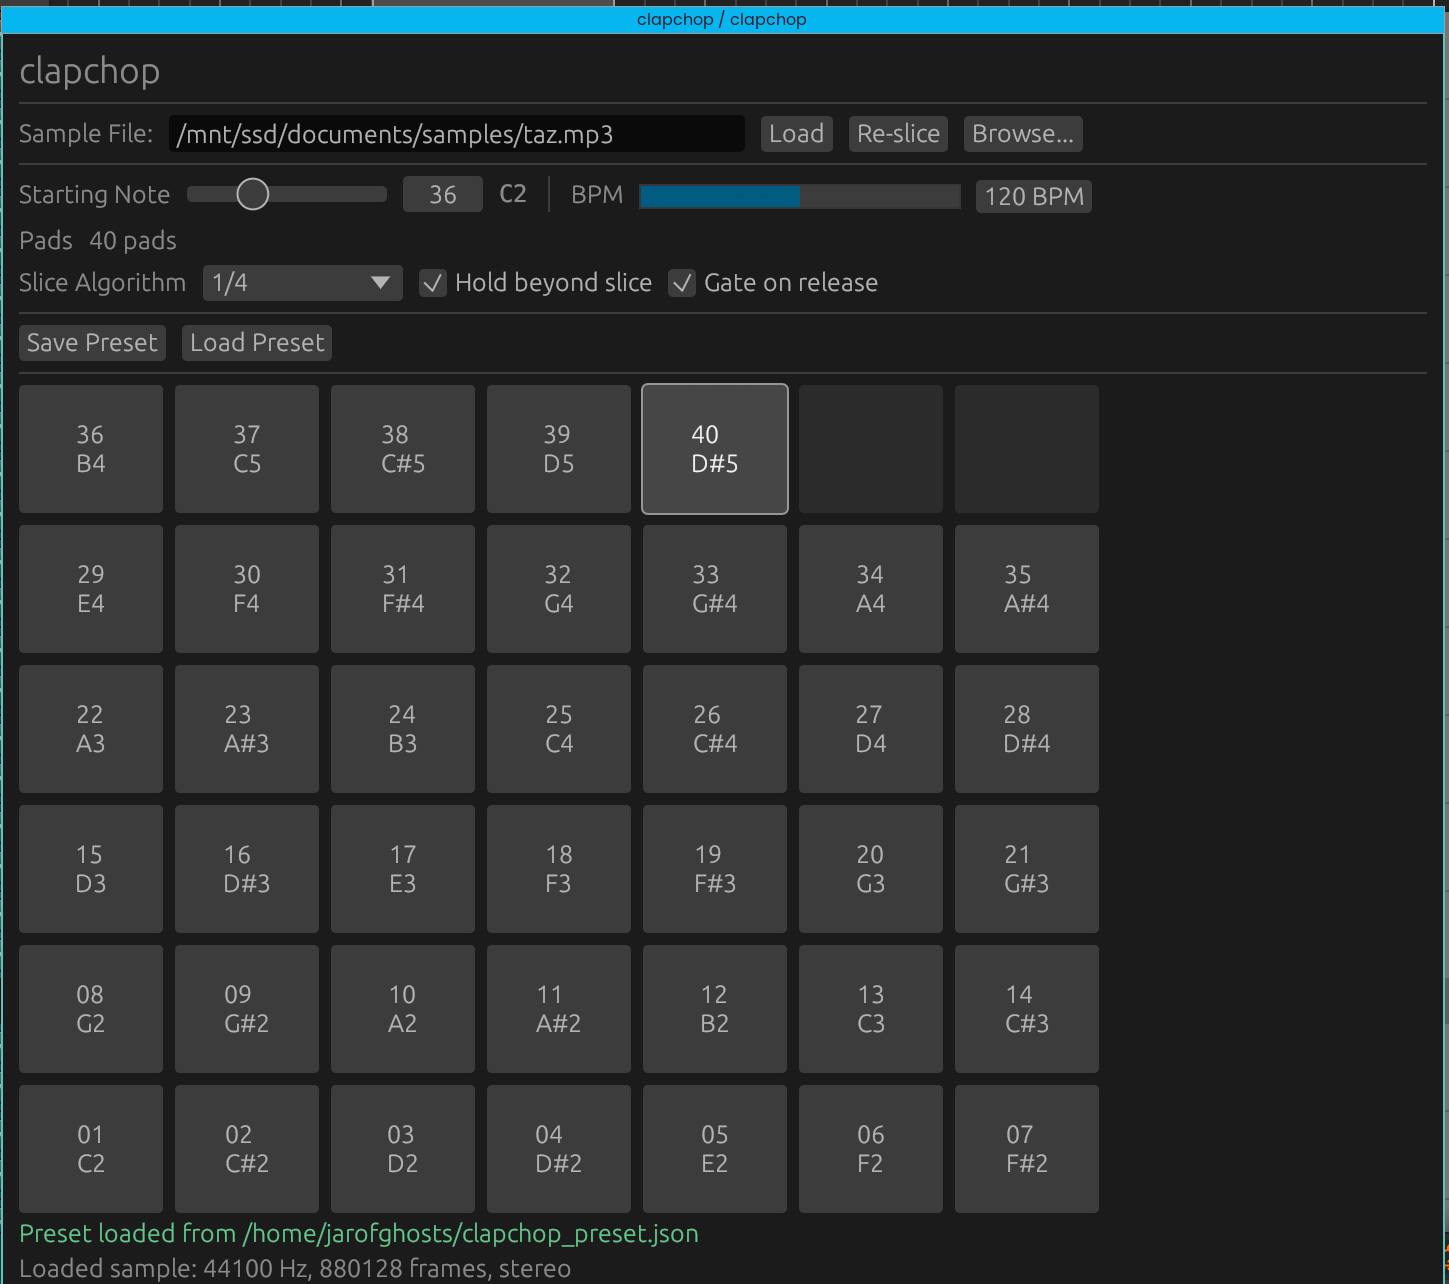
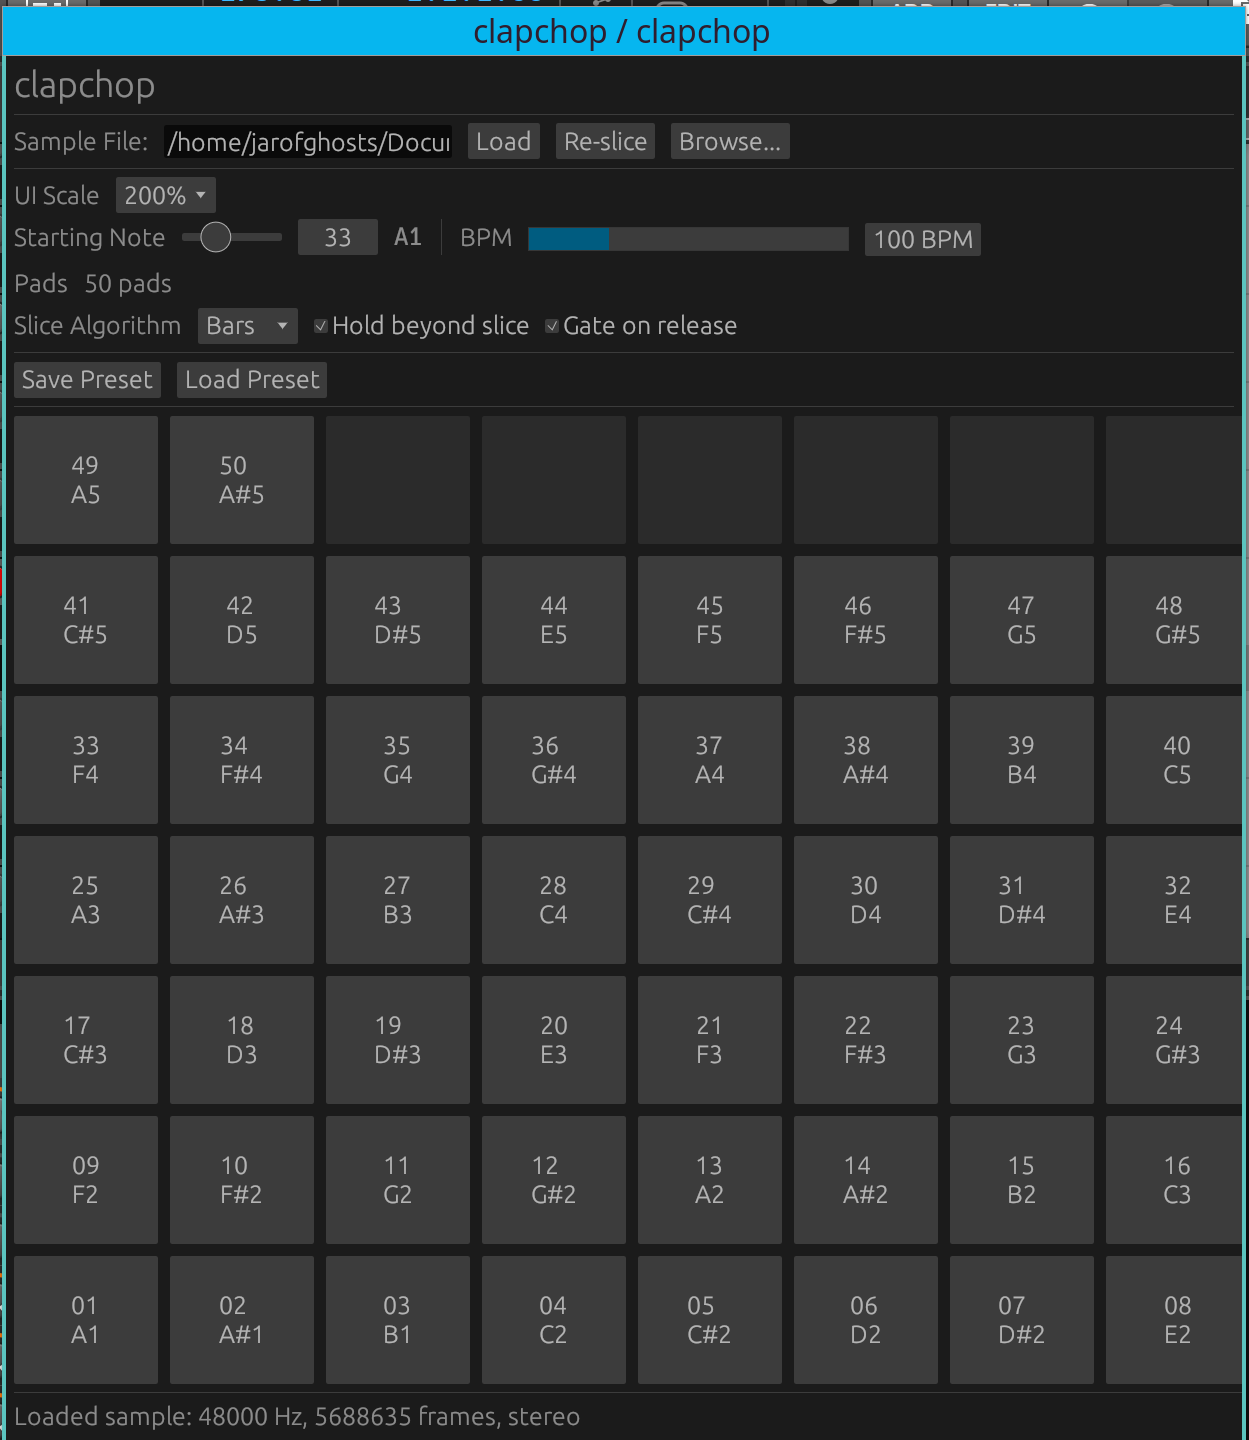
updates

diff --git a/src/ui.rs b/src/ui.rs
@@ -12,8 +12,8 @@ use crate::preset::{load_preset, save_preset, PresetData};
 use crate::slicing::SliceAlgorithm;
 use crate::{ClapChop, ClapChopParams, SharedState, UiPadEvent};
 
-pub const DEFAULT_EDITOR_WIDTH: u32 = 720;
-pub const DEFAULT_EDITOR_HEIGHT: u32 = 820;
+pub const DEFAULT_EDITOR_WIDTH: u32 = 850;
+pub const DEFAULT_EDITOR_HEIGHT: u32 = 1120;
 const PAD_WIDTH: f32 = 72.0;
 const PAD_HEIGHT: f32 = 64.0;
 const PAD_SPACING: f32 = 6.0;
@@ -25,8 +25,8 @@ pub struct GuiState {
     last_preset_path: Option<String>,
     preset_message: Option<String>,
     preset_error: Option<String>,
-	// Unscaled baseline style captured on first frame to avoid compounding scale.
-	base_style: Option<egui::Style>,
+    // Unscaled baseline style captured on first frame to avoid compounding scale.
+    base_style: Option<egui::Style>,
 }
 
 impl Default for GuiState {
@@ -38,7 +38,7 @@ impl Default for GuiState {
             last_preset_path: None,
             preset_message: None,
             preset_error: None,
-			base_style: None,
+            base_style: None,
         }
     }
 }
@@ -52,16 +52,16 @@ pub fn build_editor(
         GuiState::default(),
         |_ctx, _state| {},
         move |egui_ctx, setter, state| {
-			// Apply UI scale from persisted parameter by scaling the base style each frame.
-			let scale = (*params.ui_scale.read()).clamp(0.5, 3.0);
-			if state.base_style.is_none() {
-				state.base_style = Some(egui_ctx.style().as_ref().clone());
-			}
-			if let Some(base) = &state.base_style {
-				let mut styled = base.clone();
-				scale_style_in_place(&mut styled, scale);
-				egui_ctx.set_style(styled);
-			}
+            // Apply UI scale from persisted parameter by scaling the base style each frame.
+            let scale = (*params.ui_scale.read()).clamp(0.5, 3.0);
+            if state.base_style.is_none() {
+                state.base_style = Some(egui_ctx.style().as_ref().clone());
+            }
+            if let Some(base) = &state.base_style {
+                let mut styled = base.clone();
+                scale_style_in_place(&mut styled, scale);
+                egui_ctx.set_style(styled);
+            }
             let mut content_size = egui::Vec2::ZERO;
             let mut pad_count = 0usize;
             egui::CentralPanel::default().show(egui_ctx, |ui| {
@@ -96,14 +96,18 @@ pub fn build_editor(
                     state,
                     &shared,
                     params.starting_note.value() as u8,
-					scale,
+                    scale,
                     pad_count,
                 );
 
+                ui.separator();
                 status_section(ui, state, &shared);
+
+                // Force UI to complete layout before measuring
+                ui.ctx().request_repaint();
                 content_size = ui.min_rect().size();
             });
-			maybe_resize_editor(egui_ctx, &params.editor_state, content_size);
+            maybe_resize_editor(egui_ctx, &params.editor_state, content_size);
         },
     )
 }
@@ -210,13 +214,22 @@ fn parameter_row(
                 let set_scale = |val: f32| {
                     *params.ui_scale.write() = val;
                 };
-                if ui.selectable_label((current_scale - 1.0).abs() < 0.01, "100%").clicked() {
+                if ui
+                    .selectable_label((current_scale - 1.0).abs() < 0.01, "100%")
+                    .clicked()
+                {
                     set_scale(1.0);
                 }
-                if ui.selectable_label((current_scale - 1.5).abs() < 0.01, "150%").clicked() {
+                if ui
+                    .selectable_label((current_scale - 1.5).abs() < 0.01, "150%")
+                    .clicked()
+                {
                     set_scale(1.5);
                 }
-                if ui.selectable_label((current_scale - 2.0).abs() < 0.01, "200%").clicked() {
+                if ui
+                    .selectable_label((current_scale - 2.0).abs() < 0.01, "200%")
+                    .clicked()
+                {
                     set_scale(2.0);
                 }
             });
@@ -240,10 +253,8 @@ fn parameter_row(
 
         ui.separator();
         ui.label("BPM");
-		let scale = *params.ui_scale.read();
-		ui.add(
-			widgets::ParamSlider::for_param(&params.bpm, setter).with_width(160.0 * scale),
-		);
+        let scale = *params.ui_scale.read();
+        ui.add(widgets::ParamSlider::for_param(&params.bpm, setter).with_width(160.0 * scale));
     });
 
     ui.horizontal(|ui| {
@@ -273,14 +284,18 @@ fn parameter_row(
             });
 
         let mut hold = params.hold_continue.value();
-        if ui.checkbox(&mut hold, "Hold beyond slice").changed() {
+        if ui.checkbox(&mut hold, "Hold beyond slice")
+            .on_hover_text("Continuing to hold the trigger button will continue playing sample past the chop point.")
+            .changed() {
             setter.begin_set_parameter(&params.hold_continue);
             setter.set_parameter(&params.hold_continue, hold);
             setter.end_set_parameter(&params.hold_continue);
         }
 
         let mut gate = params.gate_on_release.value();
-        if ui.checkbox(&mut gate, "Gate on release").changed() {
+        if ui.checkbox(&mut gate, "Gate on release")
+            .on_hover_text("Depressing the trigger button will stop sample playback before the chop endpoint.")
+            .changed() {
             setter.begin_set_parameter(&params.gate_on_release);
             setter.set_parameter(&params.gate_on_release, gate);
             setter.end_set_parameter(&params.gate_on_release);
@@ -429,13 +444,13 @@ fn maybe_resize_editor(
     editor_state: &Arc<EguiState>,
     content_size: egui::Vec2,
 ) {
-	if content_size == egui::Vec2::ZERO {
+    if content_size == egui::Vec2::ZERO {
         return;
     }
 
-	// Use logical points. The host expects logical sizes, not physical pixels.
-	let desired_width = content_size.x.ceil() as u32;
-	let desired_height = content_size.y.ceil() as u32;
+    // Use logical points. The host expects logical sizes, not physical pixels.
+    let desired_width = content_size.x.ceil() as u32;
+    let desired_height = (content_size.y + 25.0).ceil() as u32;
 
     let desired_width = desired_width.max(DEFAULT_EDITOR_WIDTH);
     let desired_height = desired_height.max(DEFAULT_EDITOR_HEIGHT);
@@ -444,7 +459,7 @@ fn maybe_resize_editor(
 
     let width_diff = desired.0.abs_diff(current.0);
     let height_diff = desired.1.abs_diff(current.1);
-    if width_diff <= 1 && height_diff <= 1 {
+    if width_diff <= 15 && height_diff <= 15 {
         return;
     }
 
@@ -472,7 +487,7 @@ fn pad_grid(
     state: &mut GuiState,
     shared: &Arc<RwLock<SharedState>>,
     start_note: u8,
-	scale: f32,
+    scale: f32,
     pad_count: usize,
 ) {
     let pad_count = pad_count.min(crate::MAX_PADS);
@@ -508,24 +523,24 @@ fn pad_grid(
     } else {
         (pad_count + cols - 1) / cols
     };
-	let pad_w = PAD_WIDTH * scale;
-	let pad_h = PAD_HEIGHT * scale;
-	let pad_spacing = PAD_SPACING * scale;
-	let grid_width = if pad_count == 0 {
-		pad_w
+    let pad_w = PAD_WIDTH * scale;
+    let pad_h = PAD_HEIGHT * scale;
+    let pad_spacing = PAD_SPACING * scale;
+    let grid_width = if pad_count == 0 {
+        pad_w
     } else {
-		cols as f32 * pad_w + pad_spacing * (cols.saturating_sub(1) as f32)
+        cols as f32 * pad_w + pad_spacing * (cols.saturating_sub(1) as f32)
     };
     let grid_height = if pad_count == 0 {
-		pad_h
+        pad_h
     } else {
-		rows as f32 * pad_h + pad_spacing * (rows.saturating_sub(1) as f32)
+        rows as f32 * pad_h + pad_spacing * (rows.saturating_sub(1) as f32)
     };
     ui.set_min_width(grid_width);
     ui.set_min_height(grid_height);
 
     egui::Grid::new("pad-grid")
-		.spacing(egui::vec2(pad_spacing, pad_spacing))
+        .spacing(egui::vec2(pad_spacing, pad_spacing))
         .show(ui, |ui| {
             for row in 0..rows {
                 let display_row = rows - 1 - row;
@@ -534,7 +549,7 @@ fn pad_grid(
                     if pad_index >= pad_count {
                         ui.add_enabled(
                             false,
-							egui::Button::new("").min_size(egui::vec2(pad_w, pad_h)),
+                            egui::Button::new("").min_size(egui::vec2(pad_w, pad_h)),
                         );
                         continue;
                     }
@@ -546,8 +561,7 @@ fn pad_grid(
                     let pad_active = state.pressed_pads[pad_index]
                         || visual_states.get(pad_index).copied().unwrap_or(false);
 
-                    let mut button =
-						egui::Button::new(label).min_size(egui::vec2(pad_w, pad_h));
+                    let mut button = egui::Button::new(label).min_size(egui::vec2(pad_w, pad_h));
                     if pad_active {
                         button = button.fill(egui::Color32::from_rgb(120, 180, 255));
                     }
@@ -603,16 +617,16 @@ fn pad_grid(
 }
 
 fn scale_style_in_place(style: &mut egui::Style, scale: f32) {
-	// Scale text sizes
-	for (_ts, font_id) in style.text_styles.iter_mut() {
-		font_id.size *= scale;
-	}
-	// Scale common spacing attributes
-	style.spacing.item_spacing *= scale;
-	style.spacing.button_padding *= scale;
-	style.spacing.window_margin *= scale;
-	style.spacing.indent *= scale;
-	style.spacing.interact_size *= scale;
+    // Scale text sizes
+    for (_ts, font_id) in style.text_styles.iter_mut() {
+        font_id.size *= scale;
+    }
+    // Scale common spacing attributes
+    style.spacing.item_spacing *= scale;
+    style.spacing.button_padding *= scale;
+    style.spacing.window_margin *= scale;
+    style.spacing.indent *= scale;
+    style.spacing.interact_size *= scale;
 }
 fn midi_note_name(note: u8) -> String {
     const NAMES: [&str; 12] = [

diff --git a/src/lib.rs b/src/lib.rs
@@ -106,6 +106,7 @@ impl Default for ClapChopParams {
                     factor: 0.5,
                 },
             )
+            .with_step_size(1.0)
             .with_unit(" BPM"),
             slice_algo: EnumParam::new("Slice Algorithm", SliceAlgorithm::Quarter),
             hold_continue: BoolParam::new("Hold Continue", true),
